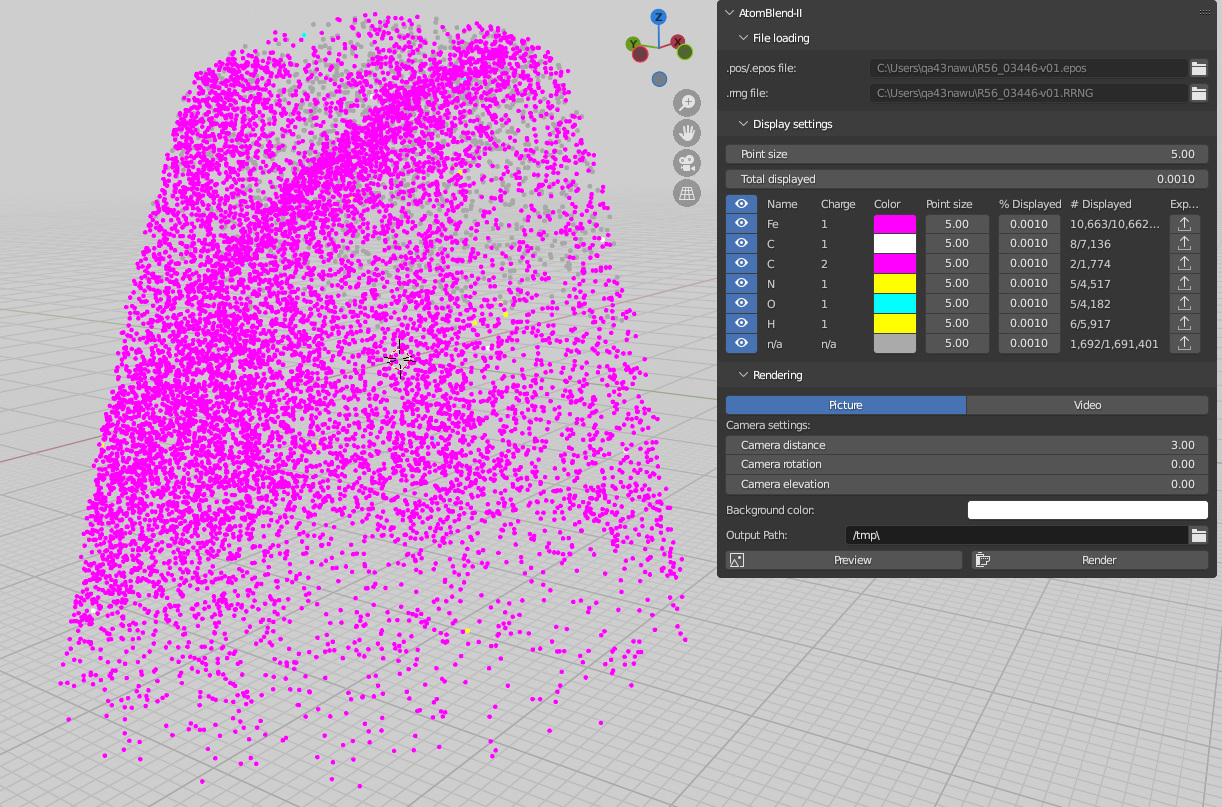
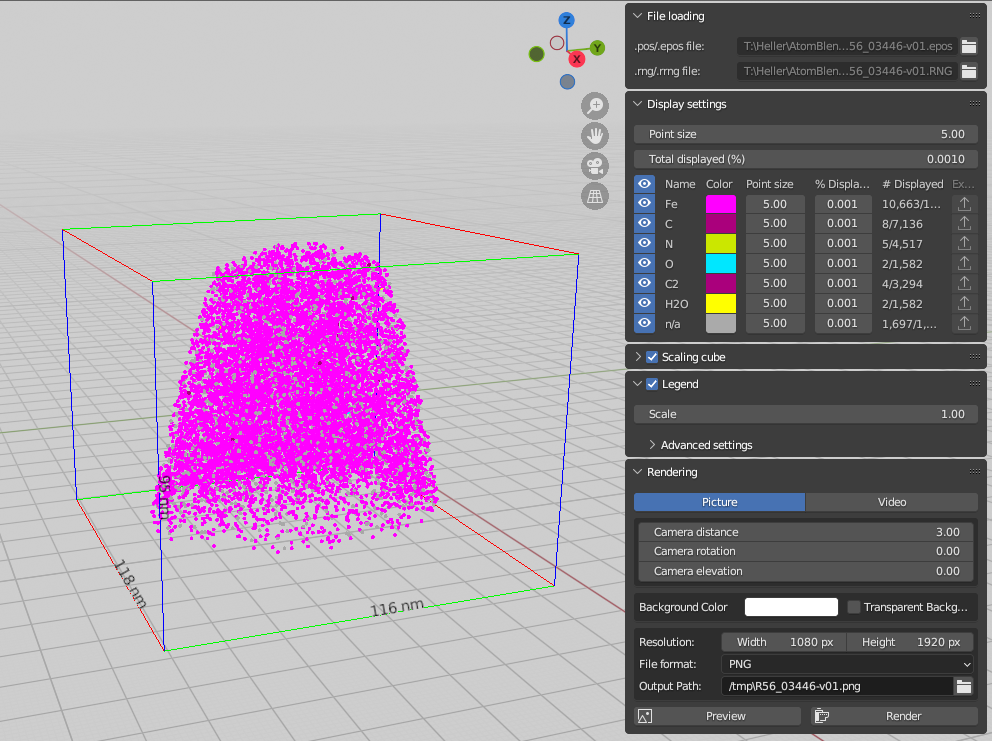
readme update

diff --git a/ui.py b/ui.py
@@ -565,6 +565,7 @@ class ATOMBLEND_PT_legend_advanced_settings(bpy.types.Panel):
     bl_region_type = "UI"
     bl_category = "AtomBlend-II"
     bl_parent_id = 'ATOMBLEND_PT_legend'
+    bl_options = {'DEFAULT_CLOSED'}
 
     @classmethod
     def poll(cls, context):
@@ -610,6 +611,7 @@ class ATOMBLEND_PT_scaling_cube(bpy.types.Panel):
     bl_space_type = "VIEW_3D"
     bl_region_type = "UI"
     bl_category = "AtomBlend-II"
+    bl_options = {'DEFAULT_CLOSED'}
 
     @classmethod
     def poll(cls, context):

diff --git a/README.md b/README.md
@@ -21,27 +21,59 @@ Click the file browser icon in the first line to load .pos or .epos files and th
 <b>Depending on your hardware, file loading may take a while! Try not to click anywhere while loading a file as Blender may crash in that case.</b>
 <br/><br/>
 After loading both the .pos/.epos and .rng/.rrng files, your screen should look similar to this:
-<img src="https://github.com/peterfelfer/AtomBlend-II/blob/media/media/readme-after_file_loading.PNG" width="50%" height="50%"/>
+<img src="media/readme-after_file_loading.PNG" width="50%" height="50%"/>
 
 ### Display settings
+In this menu the appearance of the atom tip can be changed. You can hide specific elements or edit the color or shown percentage of a certain element.
+
 `Point size` - Changes the point size of all the atoms<br/>
 `Total displayed` - Changes the percentage of all the displayed atoms<br/>
 
 <b>The following lines describe the data for every element</b><br/>
 `Hide/Display icon` - Hides or displays the element<br/>
 `Name` - The name of the element (can not be changed)<br/>
-`Charge` - The charge of the element (can not be changed)<br/>
 `Color` - The color of this element<br/>
 `Point size` - The point size of this element<br/>
 `% Displayed` - The displayed percentage of this element<br/>
 `# Displayed` - The amount of displayed atoms of this element (can not be changed)<br/>
 `Export` - Exports this element as separate object in Blender (<b>As we are using point clouds to keep the frame time in the viewport fast, this feature can only be used in the [Blender alpha version (currently 3.5.0 Alpha)](https://builder.blender.org/download/daily/)</b>). Currently, it is not possible to change the color or point size of the exportet object. <br/>
 
+### Scaling Cube
+In this menu you can change the appearance of the scaling cube around the atom tip or disable it completely.
+
+<img src="media/readme-scaling_cube.PNG" width="50%" height="50%"/>
+
+`Scaling Cube` - Disable/Enable the scaling cube<br/>
+`RGB / Uniform` - Color the axes differently (x-axis red, y-axis green, z-axis blue) or choose a uniform color.<br/>
+`Line width` - Change the line width of the scaling cube<br/>
+`Font size` - Change the font size of the measurements of the scaling cube<br/>
+`Align font to axis` - If activated, the font of the scaling cube will be aligned to the axes<br/>
+
+### Legend
+In this menu you can change the appearance of the legend. Either scale the complete legend or make more detailed settings in `Advanced settings`.<br/>
+Open the `Preview` mode to see how the legend will look on your rendering.
+
+<img src="media/readme-legend.PNG" width="50%" height="50%"/>
+
+`Legend`- Disable/Enable the legend<br/>
+`Scale` - Change the scale of the complete legend<br/>
+
+Open the `Advanced settings` to make detailed settings to the appearance of the legend.<br/>
+`x-/y-position` - Change the x- or y-position of the legend<br/>
+`Line spacing` - Change the line spacing between the different elements<br/>
+`Column spacing` - Change the column spacing between the circles showing the color of the element and the element name<br/>
+`Point size` - Change the point size of the circles showing the color of the element<br/>
+`Font size` - Change the font size of the element names<br/>
+`Font color` - Change the font color of the element names<br/>
+`Hide hidden elements in legend` - If activated, the elements you hid in the `Display settings` will also be hidden in the legend<br/>
+
 ### Rendering
+In this menu you can first chose between rendering a picture or a video, make render settings and finally render your science.<br/>
 `Picture / Video` - Select if you want to render a picture or video<br/>
 
 #### Picture
-<img src="https://github.com/peterfelfer/AtomBlend-II/blob/media/media/readme-picture_rendering.PNG" width="50%" height="50%"/>
+Rendering a picture.<br/>
+<img src="media/readme-picture_rendering.PNG" width="50%" height="50%"/>
 
 `Camera distance` - Change the distance of the camera to the tip<br/>
 `Camera rotation` - Change the rotation of the tip<br/>
@@ -54,7 +86,8 @@ After loading both the .pos/.epos and .rng/.rrng files, your screen should look 
 `Render` - Render a picture of your tip. Currently, only PNG files are supported.<br/>
 
 #### Video
-<img src="https://github.com/peterfelfer/AtomBlend-II/blob/media/media/readme-video_rendering.PNG" width="50%" height="50%"/>
+Render a video<br/>
+<img src="media/readme-video_rendering.PNG" width="50%" height="50%"/>
 
 `Camera distance` - Change the distance of the camera to the tip<br/>
 `Camera rotation` - Change the start of the rotation of the tip<br/>
